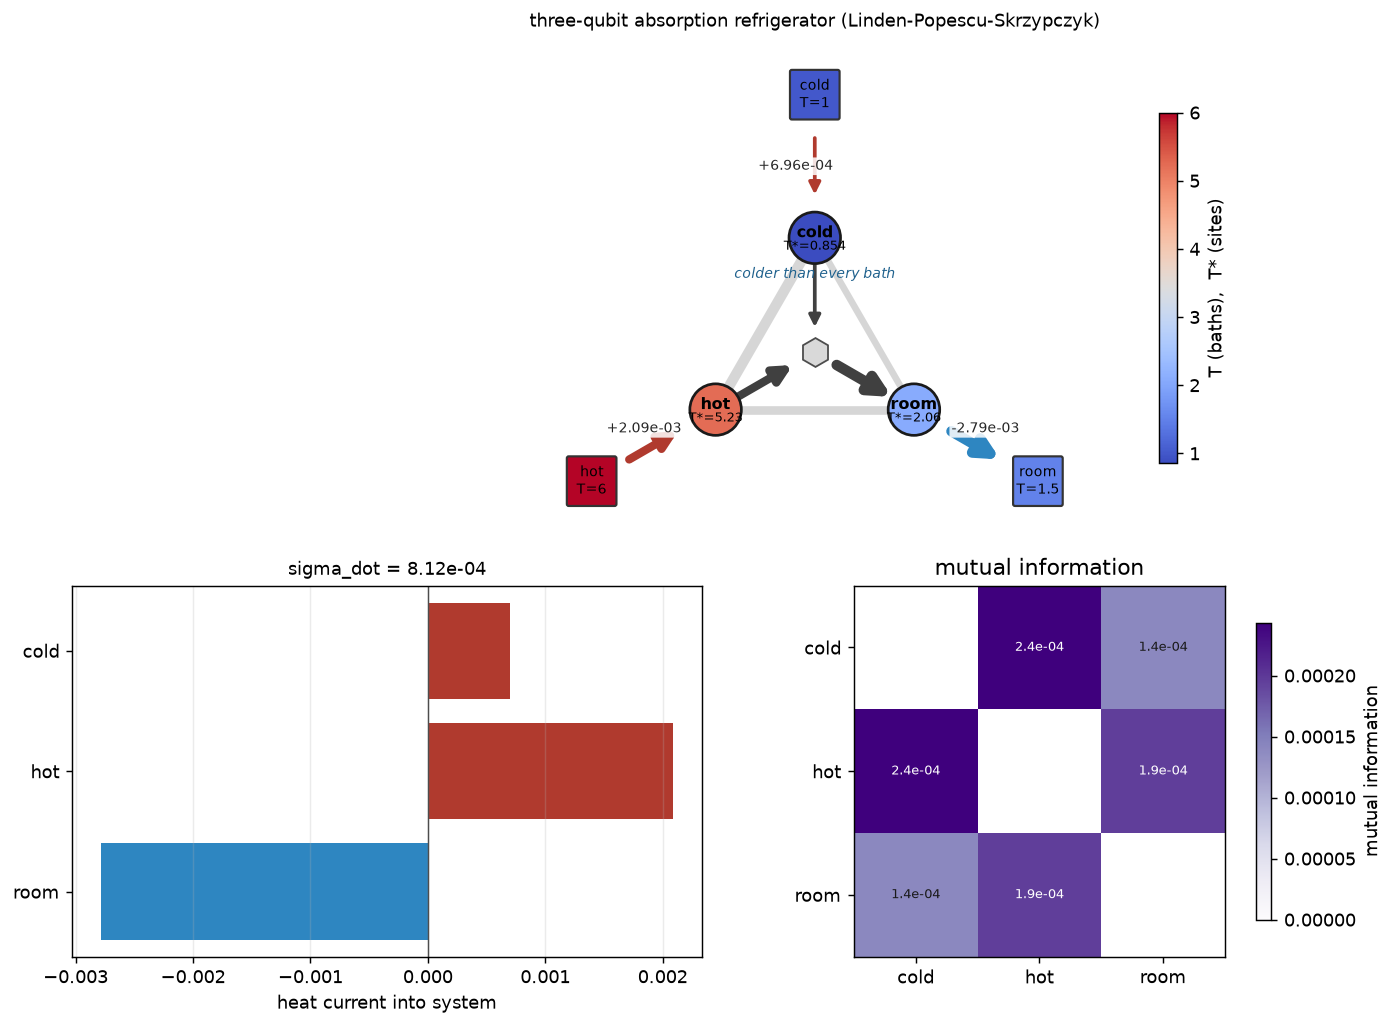
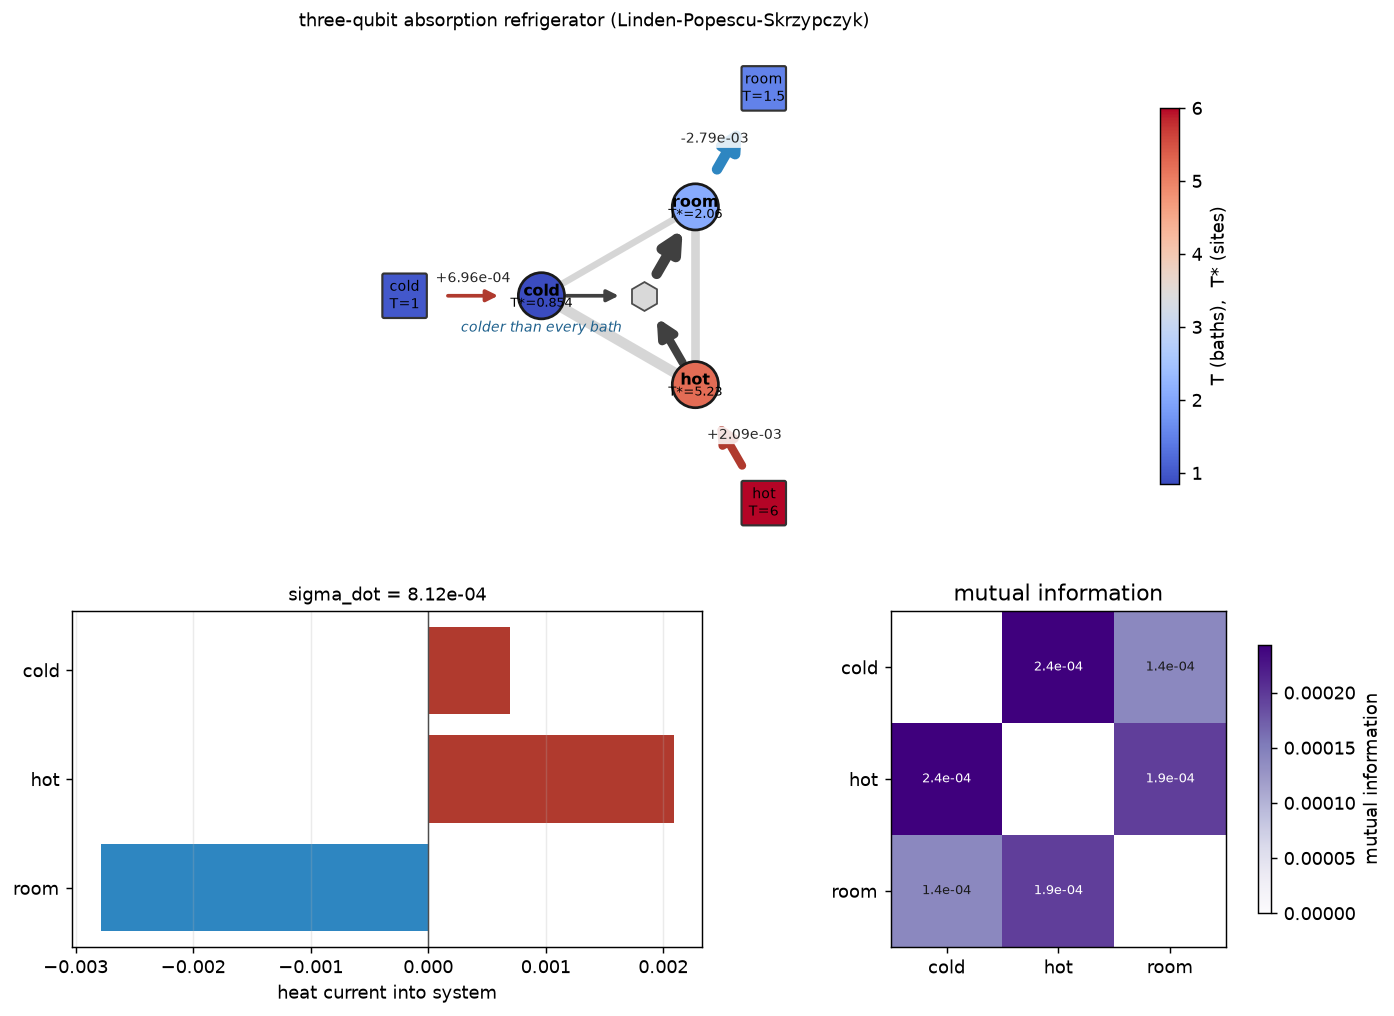
Improve heat-network layout for rings and larger machines
Polygon layouts are rotated so the first bath's site sits on the left
(baths extend sideways, matching the wide panel), and the data limits are
fitted to the panel's aspect so the drawing fills it instead of shrinking
into a corner. Checked on a 4-qubit ring (current splitting around both
arms), a 6-qubit chain and the 3-qubit fridge; example figures regenerated.

Claude-Session: https://claude.ai/code/session_01VV69mD8LuaJk9i2Bo6zgJQ

diff --git a/qthermo/plotting.py b/qthermo/plotting.py
@@ -226,14 +226,34 @@ def plot_dashboard(result, cycle, sweep_result=None, ensemble=None,
 
 # --- multi-qubit machines ----------------------------------------------------
 
-def _layout(n_sites, bonds):
-    """Chain layout when the bonds form a path, polygon otherwise."""
+def _layout(n_sites, bonds, anchor: int = 0):
+    """Chain layout when the bonds form a path, polygon otherwise.
+
+    Polygons are rotated so ``anchor`` (the site of the first bath) sits on
+    the left: baths then extend sideways and the drawing is wide, like the
+    panel it goes in.
+    """
     path = set(tuple(sorted(b)) for b in bonds if len(b) == 2)
     is_chain = n_sites <= 2 or path == {(i, i + 1) for i in range(n_sites - 1)}
     if is_chain:
         return {i: np.array([1.4 * i, 0.0]) for i in range(n_sites)}, True
-    angles = np.pi / 2 + 2 * np.pi * np.arange(n_sites) / n_sites
+    angles = np.pi + 2 * np.pi * (np.arange(n_sites) - anchor) / n_sites
     return {i: 1.2 * np.array([np.cos(a), np.sin(a)]) for i, a in enumerate(angles)}, False
+
+
+def _fit_limits(ax, lo, hi):
+    """Limits covering [lo, hi] with the panel's own aspect ratio (round circles)."""
+    fig = ax.figure
+    box = ax.get_position()
+    panel = (box.height * fig.get_figheight()) / max(box.width * fig.get_figwidth(), 1e-9)
+    width, height = hi[0] - lo[0], hi[1] - lo[1]
+    centre = 0.5 * (lo + hi)
+    if height / width < panel:
+        height = width * panel
+    else:
+        width = height / panel
+    ax.set_xlim(centre[0] - width / 2, centre[0] + width / 2)
+    ax.set_ylim(centre[1] - height / 2, centre[1] + height / 2)
 
 
 def _arrow(ax, start, end, width, color, label=None, shrink=0.0, curve=0.0):
@@ -281,7 +301,9 @@ def plot_heat_network(flow_map, ax=None, cmap="coolwarm", show_values=True,
         _, ax = plt.subplots(figsize=(7, 5))
     n = fm.n_sites
     bonds = sorted({key for (key, _) in fm.term_to_site})
-    positions, chain = _layout(n, bonds or [(i, i + 1) for i in range(n - 1)])
+    first_sites = next(iter(fm.bath_sites.values()), ()) or (0,)
+    positions, chain = _layout(n, bonds or [(i, i + 1) for i in range(n - 1)],
+                               anchor=int(first_sites[0]))
 
     temps = [T for T in fm.bath_temperature.values() if T is not None]
     temps += [T for T in fm.virtual_temperature if np.isfinite(T) and T > 0]
@@ -305,7 +327,7 @@ def plot_heat_network(flow_map, ax=None, cmap="coolwarm", show_values=True,
             direction = anchor - centre
             norm_d = np.linalg.norm(direction)
             direction = direction / norm_d if norm_d > 1e-9 else np.array([0, 1.0])
-            offset = 1.5 * direction
+            offset = 1.6 * direction
         bath_pos[bath] = anchor + offset
 
     # Bath arrows carry the heat delivered to the sites, so each site's
@@ -397,12 +419,13 @@ def plot_heat_network(flow_map, ax=None, cmap="coolwarm", show_values=True,
 
     everything = np.array(list(positions.values()) + list(bath_pos.values()))
     lo, hi = everything.min(axis=0) - 0.6, everything.max(axis=0) + 0.6
-    ax.set_xlim(lo[0], hi[0])
-    ax.set_ylim(lo[1], hi[1])
-    ax.set_aspect("equal")
     ax.axis("off")
     sm = mpl.cm.ScalarMappable(norm=norm, cmap=colormap)
     plt.colorbar(sm, ax=ax, shrink=0.7, label="T (baths),  T* (sites)")
+    # limits last: the colorbar has taken its share of the panel by now
+    _fit_limits(ax, lo, hi)
+    ax.set_aspect("equal", adjustable="box")
+    ax.set_anchor("C")
     ax.set_title(title or "Heat flow", fontsize=10)
     if fm.extras.get("secular_blind"):
         ax.text(0.5, 0.01, "global ME: bond currents vanish identically "
@@ -450,7 +473,7 @@ def plot_machine(steady, figsize=(11, 8)):
 
     fm = heat_flow_map(steady)
     fig = plt.figure(figsize=figsize)
-    grid = fig.add_gridspec(2, 2, height_ratios=[1.35, 1.0])
+    grid = fig.add_gridspec(2, 2, height_ratios=[1.6, 1.0])
     plot_heat_network(fm, ax=fig.add_subplot(grid[0, :]),
                       title=getattr(steady.model, "description", None))
 
